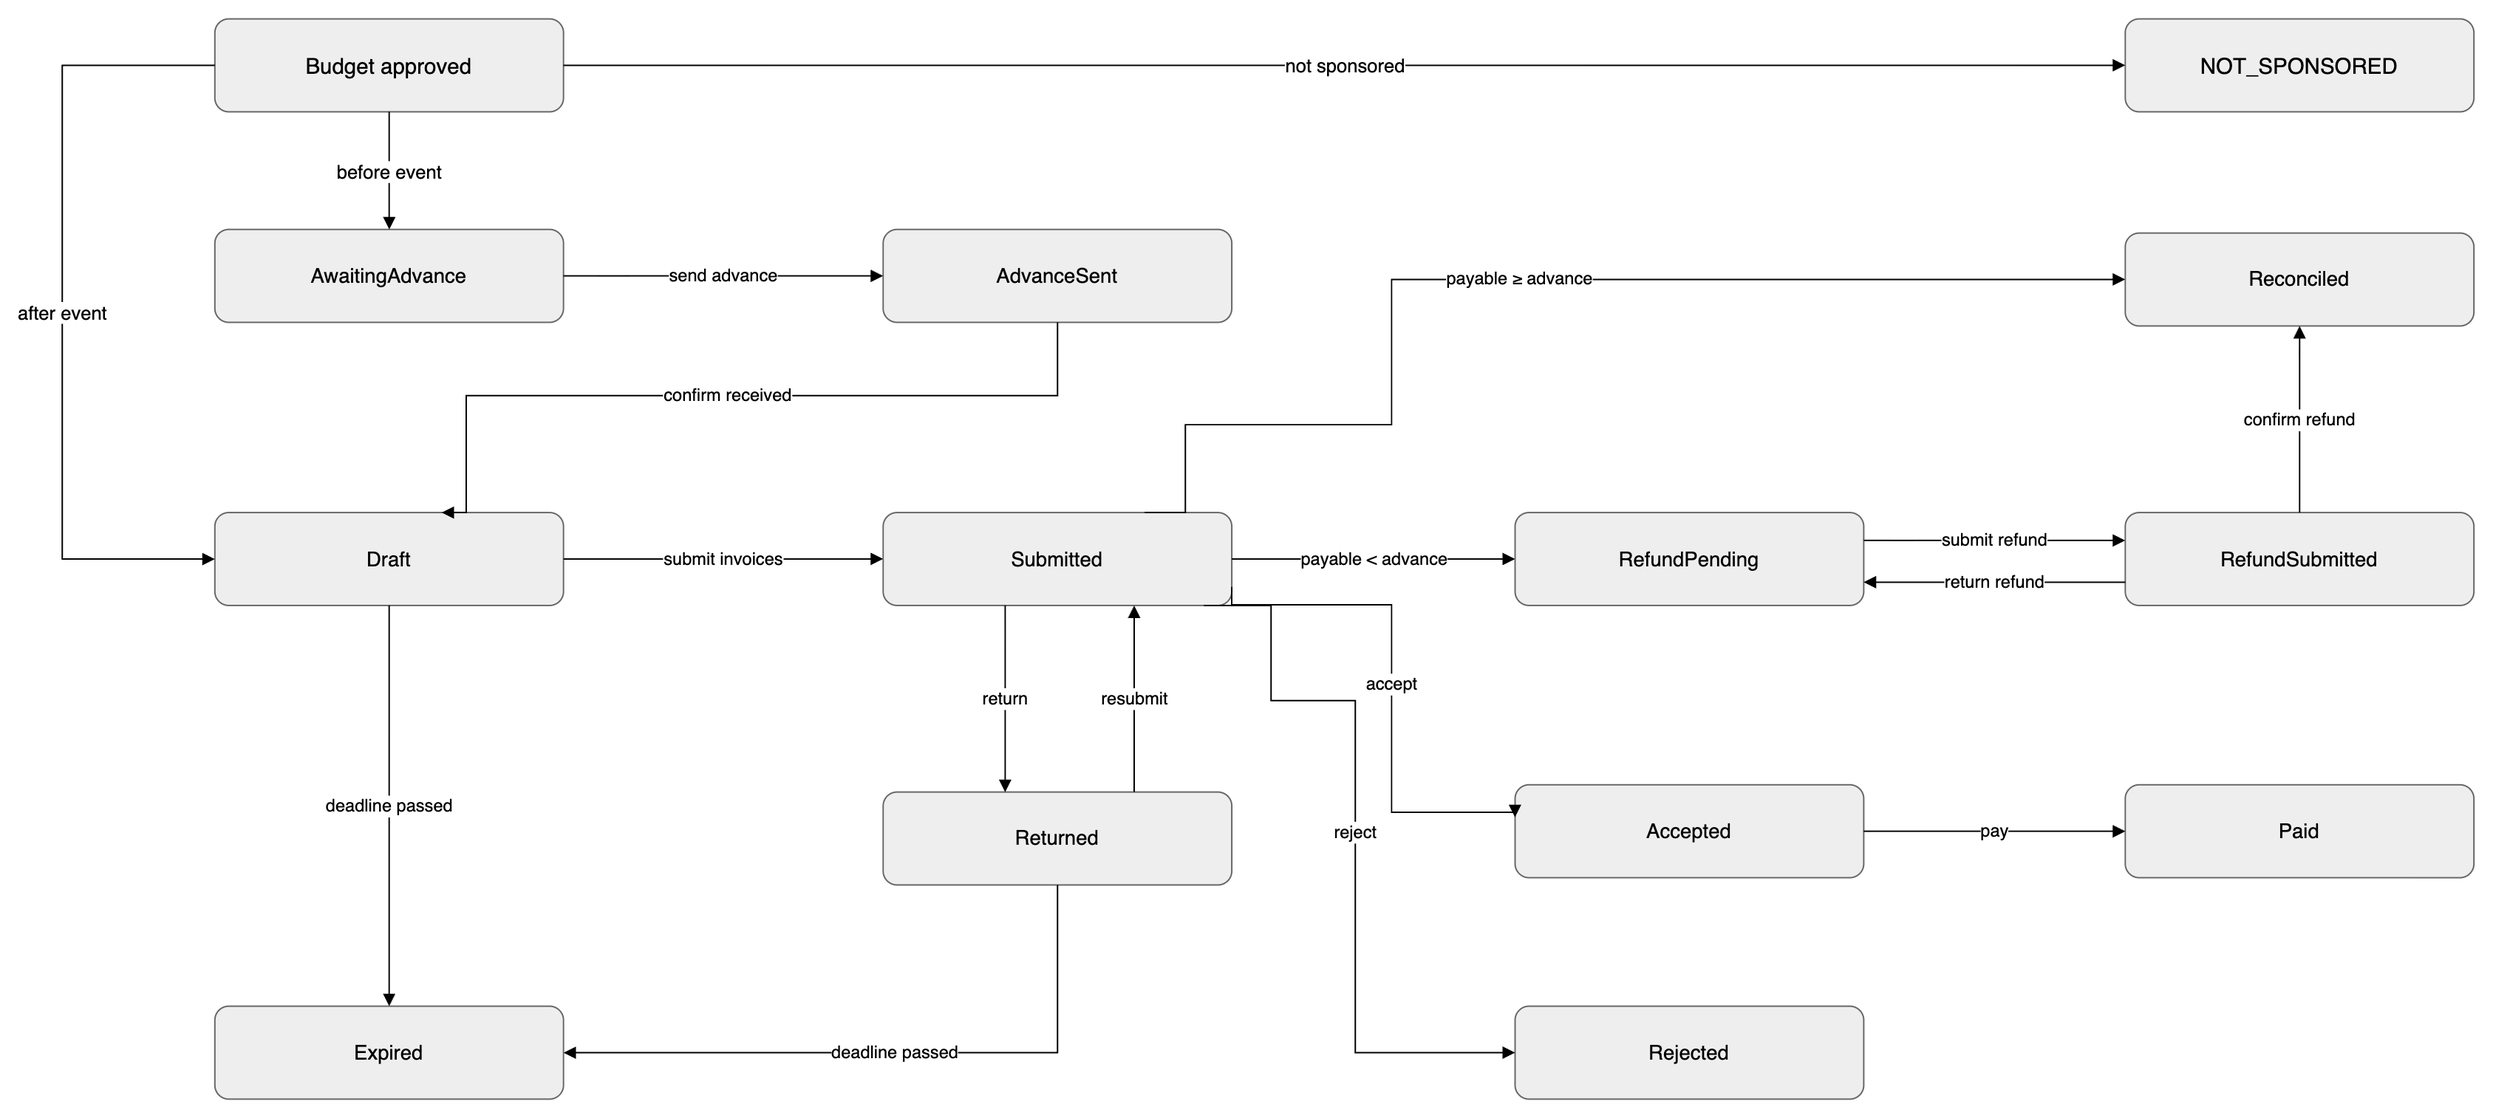
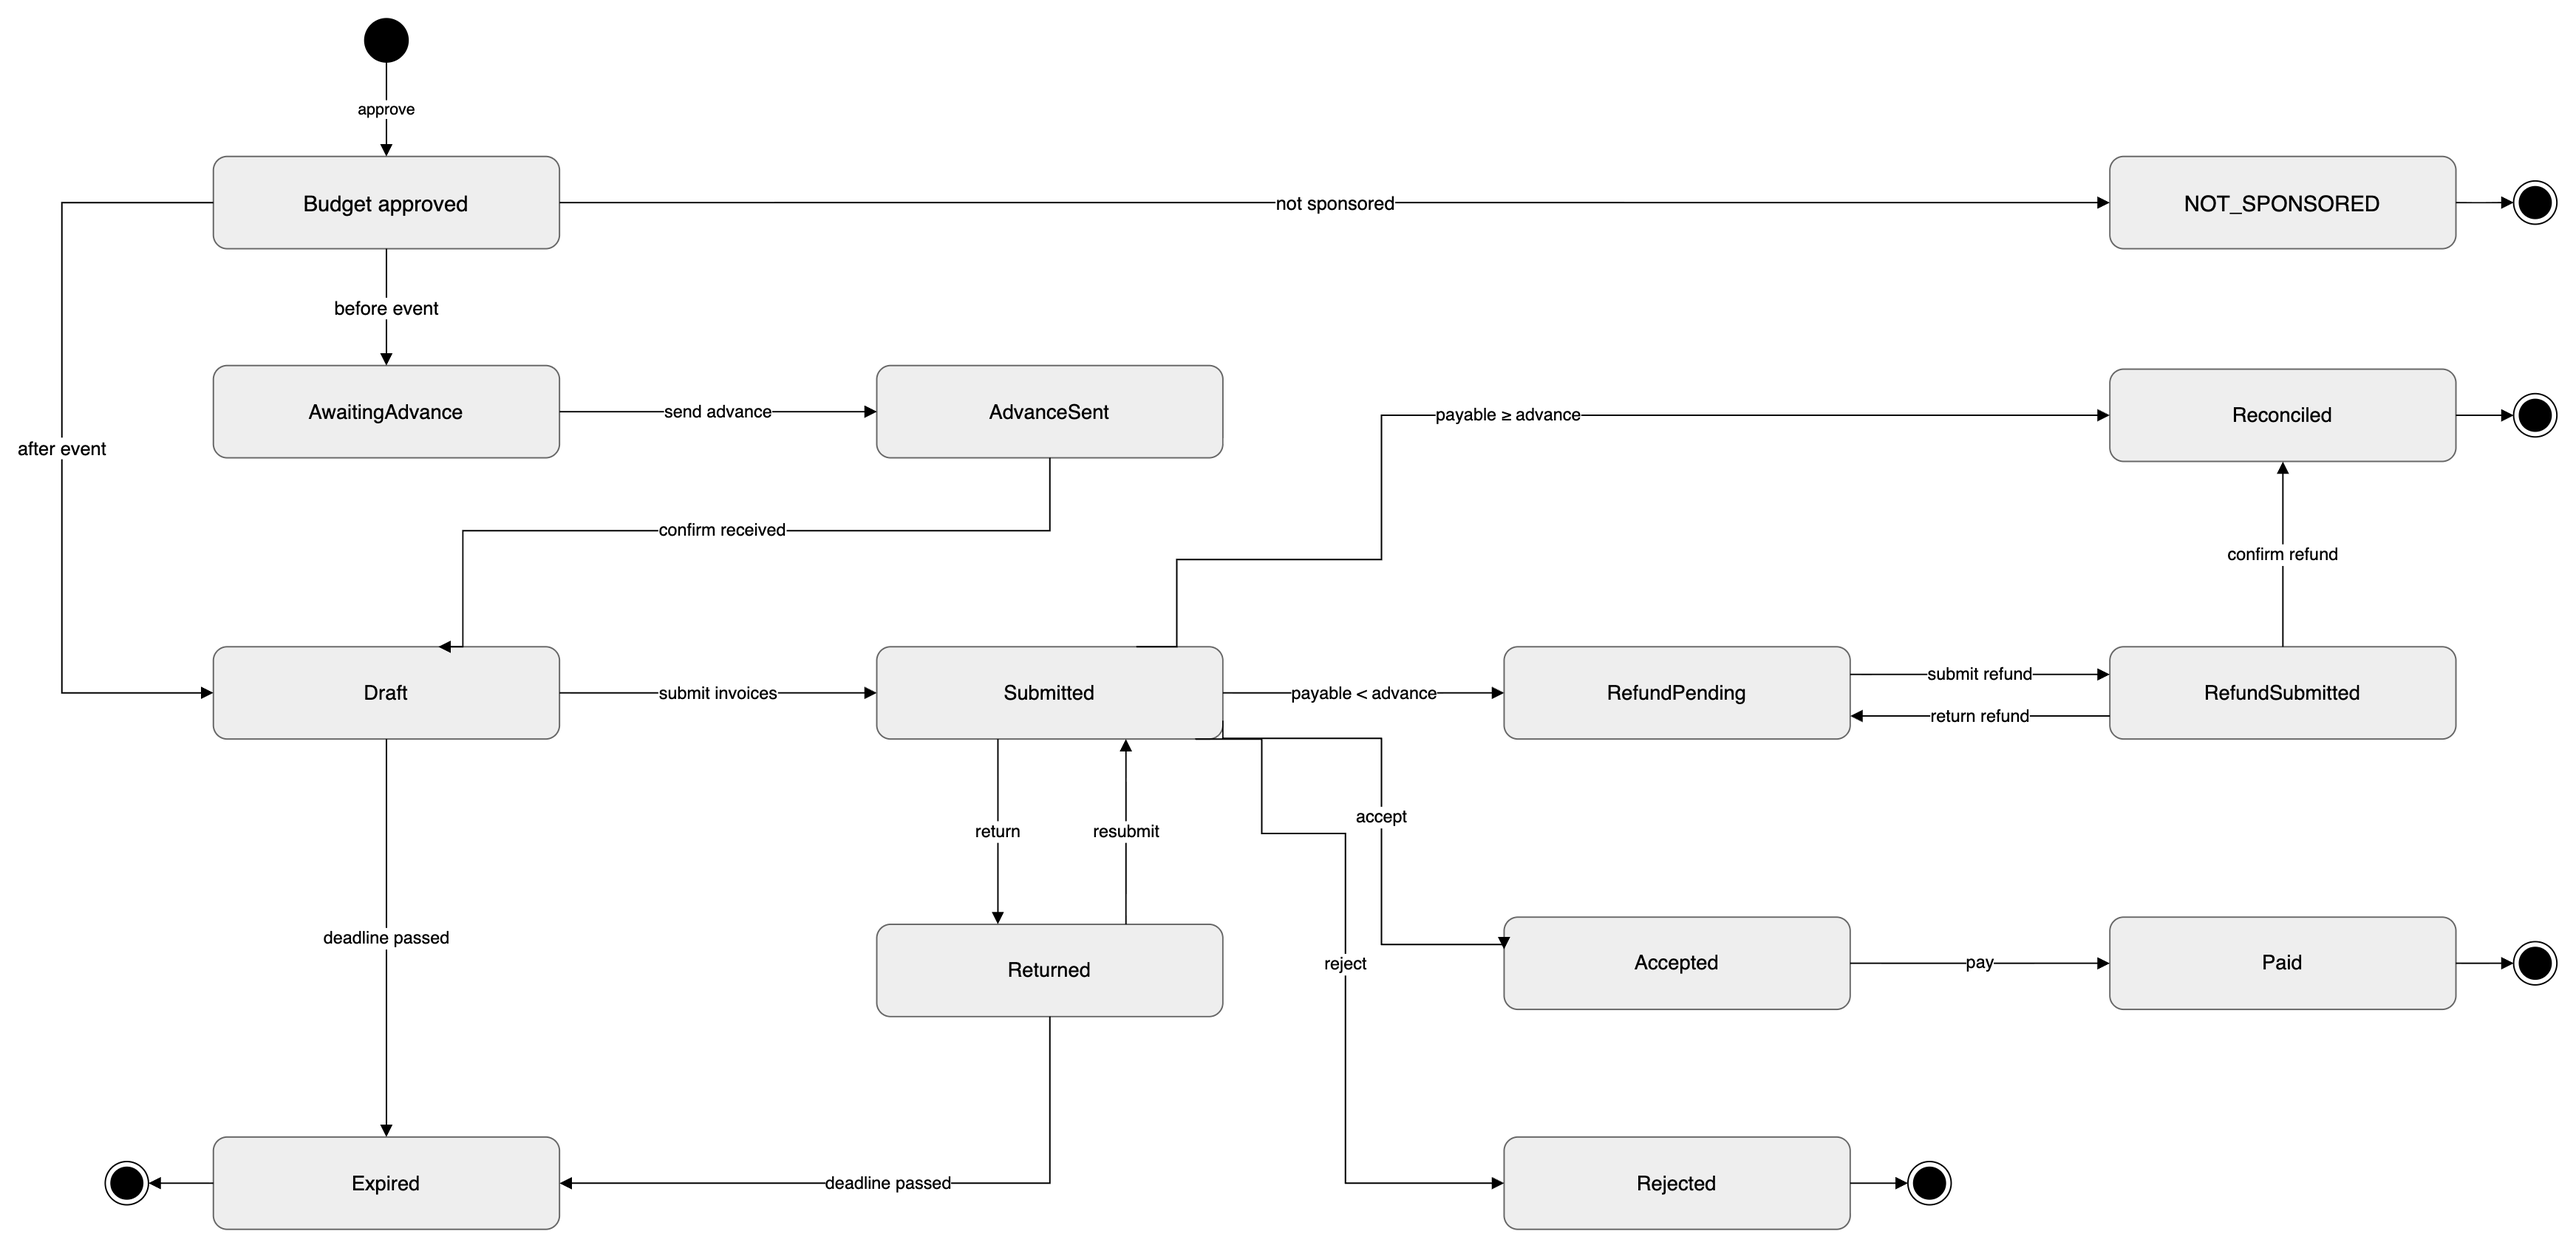
docs(diagrams): drop the unreachable attendance unlock arc and add pseudo-states to the budget item diagram

diff --git a/docs/SRS.md b/docs/SRS.md
@@ -1812,7 +1812,7 @@ Báo cáo cần bổ sung ở UC25/UC26 là **báo cáo đề xuất tổ chức
 | **Kích hoạt** | Sự kiện đã kết thúc |
 | **Tiền điều kiện** | Sự kiện đề xuất đang `Completed`; điểm danh chưa được chốt |
 | **Dữ liệu vào** | Các hiệu chỉnh cho bản ghi bất thường, kèm lý do |
-| **Thực thể / trạng thái** | Bộ dữ liệu `Attendance` bị khoá; sự kiện giữ `Completed` để nộp báo cáo sau sự kiện (UC33); mở khoá điểm danh khi chưa có báo cáo đã nộp đưa `Closed → Completed` |
+| **Thực thể / trạng thái** | Bộ dữ liệu `Attendance` bị khoá; sự kiện giữ `Completed` để nộp báo cáo sau sự kiện (UC33); mở khoá điểm danh chỉ được khi chưa có báo cáo nào đã nộp và không đổi trạng thái sự kiện |
 | **Quy tắc** | BR18, BR19, BR54 |
 | **Liên quan · Pain point** | UC31, UC33, UC42 · BP07 |
 
@@ -2780,7 +2780,6 @@ Draft → Pending Approval → Under Review ──┬──→ {Revision Request
 | Completed → Report Submitted | UC33 |
 | Report Submitted → Closed | UC34 (chấp nhận) |
 | Report Submitted → Completed | UC34 (trả báo cáo về để sửa) |
-| Closed → Completed | UC32 mở khoá điểm danh (khi chưa có báo cáo sau sự kiện đã nộp) |
 | Approved / Upcoming / Ongoing → Cancelled | UC28: Club Leader gửi yêu cầu huỷ (≥ 72 giờ trước giờ bắt đầu, chưa chốt điểm danh) → ICPDP xác nhận; UC15 tạm ngừng chỉ huỷ sự kiện `Approved` / `Upcoming` chưa bắt đầu, quyết định giải thể huỷ sự kiện `Approved` / `Upcoming` kết thúc sau học kỳ giải thể; UC40 không huỷ sự kiện |
 | Bản đổi lịch (UC28 A1) bị UC26 từ chối → Rejected; hết hạn sửa → Expired | UC26 / **Scheduler** (huỷ dây chuyền đăng ký và booking) |
 | Pending Approval / Under Review / Revision Requested / Re-defense Pending → Cancelled | UC15 (tạm ngừng, hoặc quyết định giải thể theo BR45), hoặc **Scheduler** khi CLB chuyển `Dissolved` |
@@ -3846,7 +3845,7 @@ Mọi sơ đồ đều có nguồn draw.io kèm bản xuất PNG trong `03-diagr
 | **Main workflow** (chín swimlane theo luồng happy case, tiếng Anh; khối hoạt động màu xám, hình thoi quyết định màu vàng; ba trang Slide là bản ngang dùng cho thuyết trình) | 01 Club establishment · 02 Member recruitment · 03 Periodic reports submission · 04 Term transition · 05 Club suspension · 06 Facilities request · 07 Event proposal and approval · 08 Event run and close · 09 Event disbursement · Slide 01 · Slide 07 · Slide 09 | [`03-diagrams/UCMS_Main_Workflow.drawio`](03-diagrams/UCMS_Main_Workflow.drawio) |
 | Swimlane chi tiết từng luồng (§2.5, tiếng Anh) | Club Founding · Leadership Transition · Member Recruitment · Event Proposal · Event Execution · Event Finance · Room Allocation · Facility Request · Complaint Handling · Periodic Report · Violation Case · Club Evaluation · Suspension and Dissolution · Club Leader and Club Member | [`03-diagrams/UCMS_Swimlane_Flows.drawio`](03-diagrams/UCMS_Swimlane_Flows.drawio) |
 | **State diagram** (một màu xám cho mọi trạng thái, nhãn chuyển trạng thái ngắn, không ghi chú) | Club Application · Club · Membership · Recruitment Campaign · Recruitment Application · Event · Event Budget · Property Booking · Event Defense Session | [`03-diagrams/UCMS_State_Diagrams.drawio`](03-diagrams/UCMS_State_Diagrams.drawio) |
-| **ERD** (mô hình khái niệm, 33 thực thể cùng một màu xám, mỗi ký pháp một hình) | ERD Chen · ERD Crow's Foot · ERD Chen (no legend) · ERD Crow's Foot (no legend) | [`03-diagrams/UCMS_ERD.drawio`](03-diagrams/UCMS_ERD.drawio) |
+| **ERD** (mô hình khái niệm, 34 thực thể và 2 thực thể liên kết, 58 quan hệ có tên, cùng một màu xám, mỗi ký pháp một hình) | ERD Chen · ERD Crow's Foot · ERD Chen (no legend) · ERD Crow's Foot (no legend) | [`03-diagrams/UCMS_ERD.drawio`](03-diagrams/UCMS_ERD.drawio) |
 | **Database schema** (mô hình vật lý MongoDB, Crow's Foot, 55 collection) | Schema overview · 10 trang theo module (M01 … M12) · Enums | [`03-diagrams/UCMS_Database_Schema.drawio`](03-diagrams/UCMS_Database_Schema.drawio) |
 | **System architecture** | System architecture | [`03-diagrams/UCMS_System_Architecture.drawio`](03-diagrams/UCMS_System_Architecture.drawio) |
 | **Kiến trúc bảo mật** (các lớp phòng thủ của request `/api/v1`, §12.1) | Security architecture | [`03-diagrams/UCMS_Security_Architecture.drawio`](03-diagrams/UCMS_Security_Architecture.drawio) |

diff --git a/docs/03-diagrams/README.md b/docs/03-diagrams/README.md
@@ -330,3 +330,4 @@ Mỗi hình thoi vẫn có đúng 1 cạnh vào và 2 cạnh ra.
 - **Context diagram (2026-11-24):** bỏ luồng `Internal event records` (UCMS → ICPDP) và đổi nhãn `Event proposals & internal events` thành `Event proposals`, vì sự kiện nội bộ CLB đã gỡ khỏi code; còn 45 luồng.
 - **Organization structure (2026-11-24):** bỏ ô note vàng và các dòng mô tả phụ trong từng khối, chỉ giữ tên khối; nhãn mũi tên còn `recruitment`.
 - **Screen flow (2026-11-24):** bỏ hai màn `Internal events` / `Internal event` của ICPDP (tính năng đã gỡ ngày 19/11/2026), dồn các màn phía dưới lên.
+- **State diagram (2026-11-24, đợt 2):** trang Event bỏ cung `unlock attendance` Closed → Completed (không thể xảy ra vì unlock bị chặn khi đã có báo cáo); trang Event Budget thêm nút đầu (`approve`) và nút cuối cho NOT_SPONSORED, Reconciled, Paid, Rejected, Expired.
